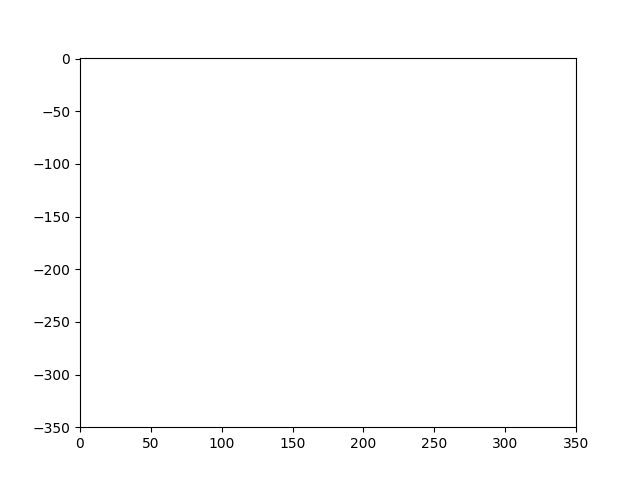
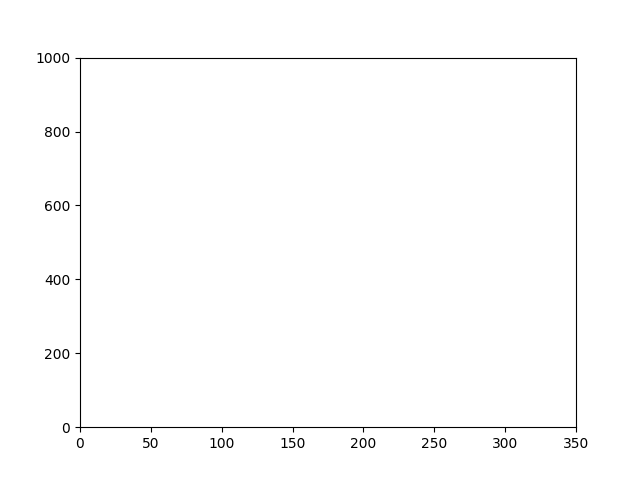
Modified controller manager

diff --git a/ur_openai_ros/ur_reaching/script/ur_reaching/ppo_gae_main.py b/ur_openai_ros/ur_reaching/script/ur_reaching/ppo_gae_main.py
@@ -27,7 +27,7 @@ def run_episode(env, animate=False): # Run policy and collect (state, action, re
     observes, actions, rewards, infos = [], [], [], []
     done = False
 
-    n_step = 10
+    n_step = 1000
     for update in range(n_step):
         obs = np.array(obs)
         obs = obs.astype(np.float32).reshape((1, -1)) # numpy.ndarray (1, num_obs)
@@ -53,17 +53,19 @@ def run_policy(env, episodes): # collect trajectories
     trajectories = []
     for e in range(episodes):
         observes, actions, rewards, infos = run_episode(env) # numpy.ndarray
-        print ("######################run_policy######################")
-        print ("observes: ", observes.shape, type(observes))
-        print ("actions: ", actions.shape, type(actions))
-        print ("rewards: ", rewards.shape, type(rewards))
         total_steps += observes.shape[0]
         trajectory = {'observes': observes,
                       'actions': actions,
                       'rewards': rewards,
-                      'infos': infos}
-        print ("trajectory: ", len(trajectory), type(trajectory))
+                      'infos': infos} 
+        '''
+        print ("######################run_policy######################")
+        print ("observes: ", observes.shape, type(observes)) # (n_step, 15), <type 'numpy.ndarray'>
+        print ("actions: ", actions.shape, type(actions))  #(n_step, 6), <type 'numpy.ndarray'>
+        print ("rewards: ", rewards.shape, type(rewards))  #(n_step, ), <type 'numpy.ndarray'>
+        print ("trajectory: ", len(trajectory), type(trajectory)) #(n_step, 4), <type 'numpy.ndarray'>
         print ("#####################run_policy#######################")
+        '''
         trajectories.append(trajectory)
     return trajectories
         
@@ -79,9 +81,12 @@ def add_gae(trajectories, gamma=0.99, lam=0.98): # generalized advantage estimat
         values = trajectory['values']
         
         # temporal differences
+        '''
         print ("###############################add_gae###########################")
-        print ("rewards: ", rewards.shape)
-        print ("values): ", values.shape)
+        print ("rewards: ", rewards.shape)  # (n_step, ), <type 'numpy.ndarray'>
+        print ("values): ", values.shape)  # (n_step, ), <type 'numpy.ndarray'>
+        print ("###############################add_gae###########################")
+        '''
         tds = rewards + np.append(values[1:], 0) * gamma - values
         advantages = np.zeros_like(tds)
         advantage = 0
@@ -89,7 +94,6 @@ def add_gae(trajectories, gamma=0.99, lam=0.98): # generalized advantage estimat
             advantage = tds[t] + lam*gamma*advantage
             advantages[t] = advantage
         trajectory['advantages'] = advantages
-        print ("###############################add_gae###########################")
 
 def add_rets(trajectories, gamma=0.99): # compute the returns
     for trajectory in trajectories:
@@ -140,7 +144,7 @@ def main():
     y_data = []
     axes = plt.gca()
     axes.set_xlim(0, 350)
-    axes.set_ylim(-350, +1)
+    axes.set_ylim(0, 1000)
     line, = axes.plot(x_data, y_data, 'r-')
 
     for update in range(nupdates+1):

diff --git a/ur_openai_ros/ur_reaching/script/ur_reaching/env/controllers_connection.py b/ur_openai_ros/ur_reaching/script/ur_reaching/env/controllers_connection.py
@@ -2,6 +2,8 @@
 import sys
 import rospy
 from controller_manager_msgs.srv import SwitchController, SwitchControllerRequest, SwitchControllerResponse
+from controller_manager_msgs.srv import LoadController, LoadControllerRequest, LoadControllerResponse
+from controller_manager_msgs.srv import UnloadController, UnloadControllerRequest, UnloadControllerResponse
 
 class ControllersConnection():
     
@@ -9,6 +11,12 @@ class ControllersConnection():
 
         self.switch_service_name = '/controller_manager/switch_controller'
         self.switch_service = rospy.ServiceProxy(self.switch_service_name, SwitchController)
+        
+        self.load_service_name = '/controller_manager/load_controller'
+        self.load_service = rospy.ServiceProxy(self.load_service_name, LoadController)
+
+        self.unload_service_name = '/controller_manager/unload_controller'
+        self.unload_service = rospy.ServiceProxy(self.unload_service_name, UnloadController)
 
         self.vel_traj_controller = ['joint_state_controller',
                             'gripper_controller',
@@ -90,3 +98,48 @@ class ControllersConnection():
 
         return reset_result
 
+    def load_controllers(self, load_controllers_name):
+        rospy.wait_for_service(self.load_service_name)
+
+        try:
+            load_request_object = LoadControllerRequest()
+            load_request_object.name = load_controllers_name
+
+            load_result = self.load_service(load_request_object)
+            """
+            [controller_manager_msgs/LoadController]
+            string name
+            ---
+            bool ok
+            """
+            rospy.logdebug("Load Result==>"+str(load_result.ok))
+
+            return load_result.ok
+
+        except rospy.ServiceException, e:
+            print (self.load_service_name + " service call failed")
+
+            return None
+
+    def unload_controllers(self, unload_controllers_name):
+        rospy.wait_for_service(self.unload_service_name)
+
+        try:
+            unload_request_object = UnloadControllerRequest()
+            unload_request_object.name = unload_controllers_name
+
+            unload_result = self.unload_service(unload_request_object)
+            """
+            [controller_manager_msgs/UnloadController]
+            string name
+            ---
+            bool ok
+            """
+            rospy.logdebug("Load Result==>"+str(unload_result.ok))
+
+            return unload_result.ok
+
+        except rospy.ServiceException, e:
+            print (self.unload_service_name + " service call failed")
+
+            return None

diff --git a/ur_openai_ros/ur_reaching/script/ur_reaching/env/joint_traj_publisher.py b/ur_openai_ros/ur_reaching/script/ur_reaching/env/joint_traj_publisher.py
@@ -16,7 +16,7 @@ class JointTrajPub(object):
         """
         Publish trajectory_msgs::JointTrajectory for velocity control
         """
-        self._joint_traj_pub = rospy.Publisher('/vel_traj_controller/command', JointTrajectory, queue_size=1)
+        self._joint_traj_pub = rospy.Publisher('/vel_traj_controller/command', JointTrajectory, queue_size=10)
     	self._ctrl_conn = ControllersConnection(namespace="")
 
     def set_init_pose(self, init_pose):
@@ -44,10 +44,6 @@ class JointTrajPub(object):
 
         rospy.logdebug("All Joint Publishers READY")
 
-    def joint_mono_des_callback(self, msg):
-        rospy.logdebug(str(msg.joint_state.position))
-
-        self.move_joints(msg.joint_state.position)
 
     def move_joints(self, joints_array):
         vel_cmd = JointTrajectory()
@@ -60,6 +56,43 @@ class JointTrajPub(object):
         # setup the reset of the pt
         vel_cmd.points =[jtp]
         self._joint_traj_pub.publish(vel_cmd)
+
+
+    def jointTrajectoryCommand(self, joints_array):
+        rospy.loginfo("jointTrajectoryCommand")
+        try:    
+            rospy.loginfo (rospy.get_rostime().to_sec())
+            while rospy.get_rostime().to_sec() == 0.0:
+                time.sleep(0.1)
+                rospy.loginfo (rospy.get_rostime().to_sec())
+
+            jt = JointTrajectory()
+            jt.header.stamp = rospy.Time.now()
+            jt.header.frame_id = "ur5"
+            jt.joint_names.append("shoulder_pan_joint")
+            jt.joint_names.append("shoulder_lift_joint")
+            jt.joint_names.append("elbow_joint")
+            jt.joint_names.append("wrist_1_joint")
+            jt.joint_names.append("wrist_2_joint")
+            jt.joint_names.append("wrist_3_joint")
+                    
+            dt = 0.01
+            p = JointTrajectoryPoint()
+            p.positions.append(joints_array[0])
+            p.positions.append(joints_array[1])
+            p.positions.append(joints_array[2])
+            p.positions.append(joints_array[3])
+            p.positions.append(joints_array[4])
+            p.positions.append(joints_array[5])
+            jt.points.append(p)
+
+            # set duration
+            jt.points[0].time_from_start = rospy.Duration.from_sec(dt)
+            rospy.loginfo("Test: velocities")
+            self._joint_traj_pub.publish(jt)
+
+        except rospy.ROSInterruptException: pass
+
 
     def start_loop(self, rate_value = 2.0):
         rospy.logdebug("Start Loop")

diff --git a/ur_openai_ros/ur_reaching/script/ur_reaching/env/ur_reaching_env.py b/ur_openai_ros/ur_reaching/script/ur_reaching/env/ur_reaching_env.py
@@ -457,7 +457,7 @@ class URSimReaching(robot_gazebo_env_goal.RobotGazeboEnv):
 		#print ("[self.target_point]: ", [self.target_point.x, self.target_point.y, self.target_point.z])
 		#print ("(self.get_current_xyz(): ", self.get_current_xyz())
 		end_effector_pos = np.array([self.end_effector.position.x, self.end_effector.position.y, self.end_effector.position.z])
-		self.distance = np.linalg.norm(end_effector_pos, axis=0)
+		self.distance = np.linalg.norm(end_effector_pos - [self.target_point.x, self.target_point.y, self.target_point.z], axis=0)
 		return np.exp(-np.linalg.norm(end_effector_pos, axis=0))
 		#return np.exp(np.linalg.norm(self.get_current_xyz() - [self.target_point.x, self.target_point.y, self.target_point.z], axis=0))
 		
